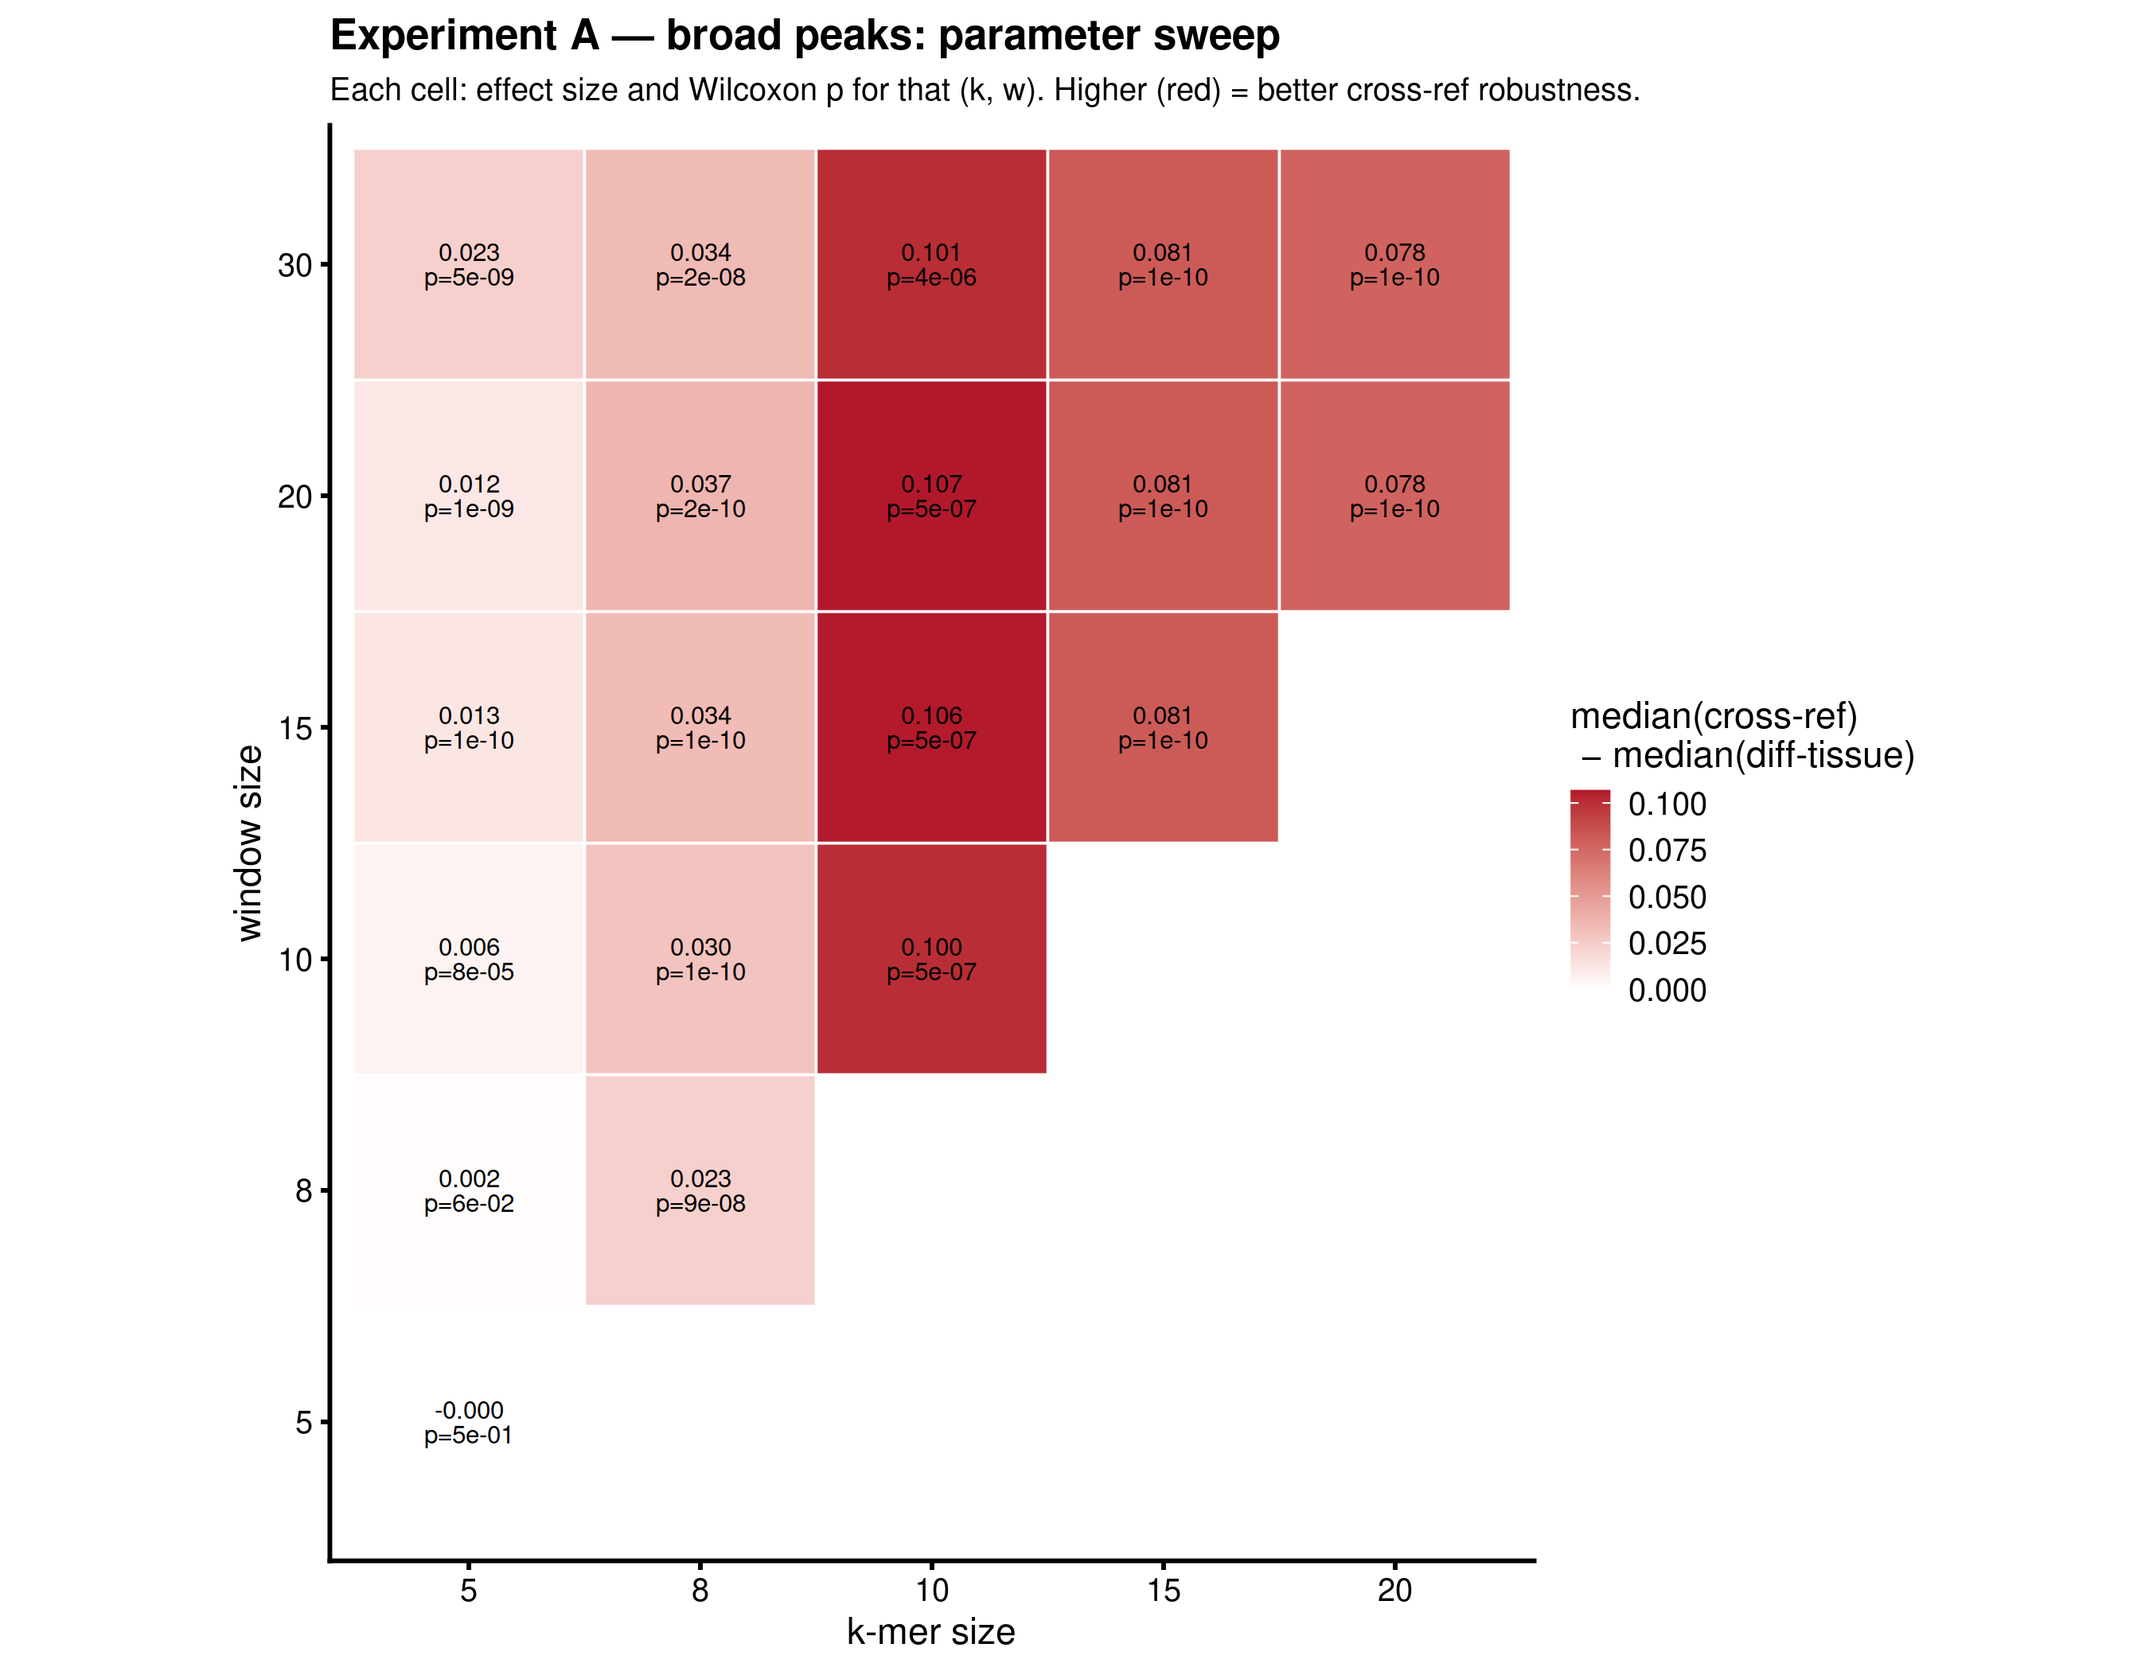
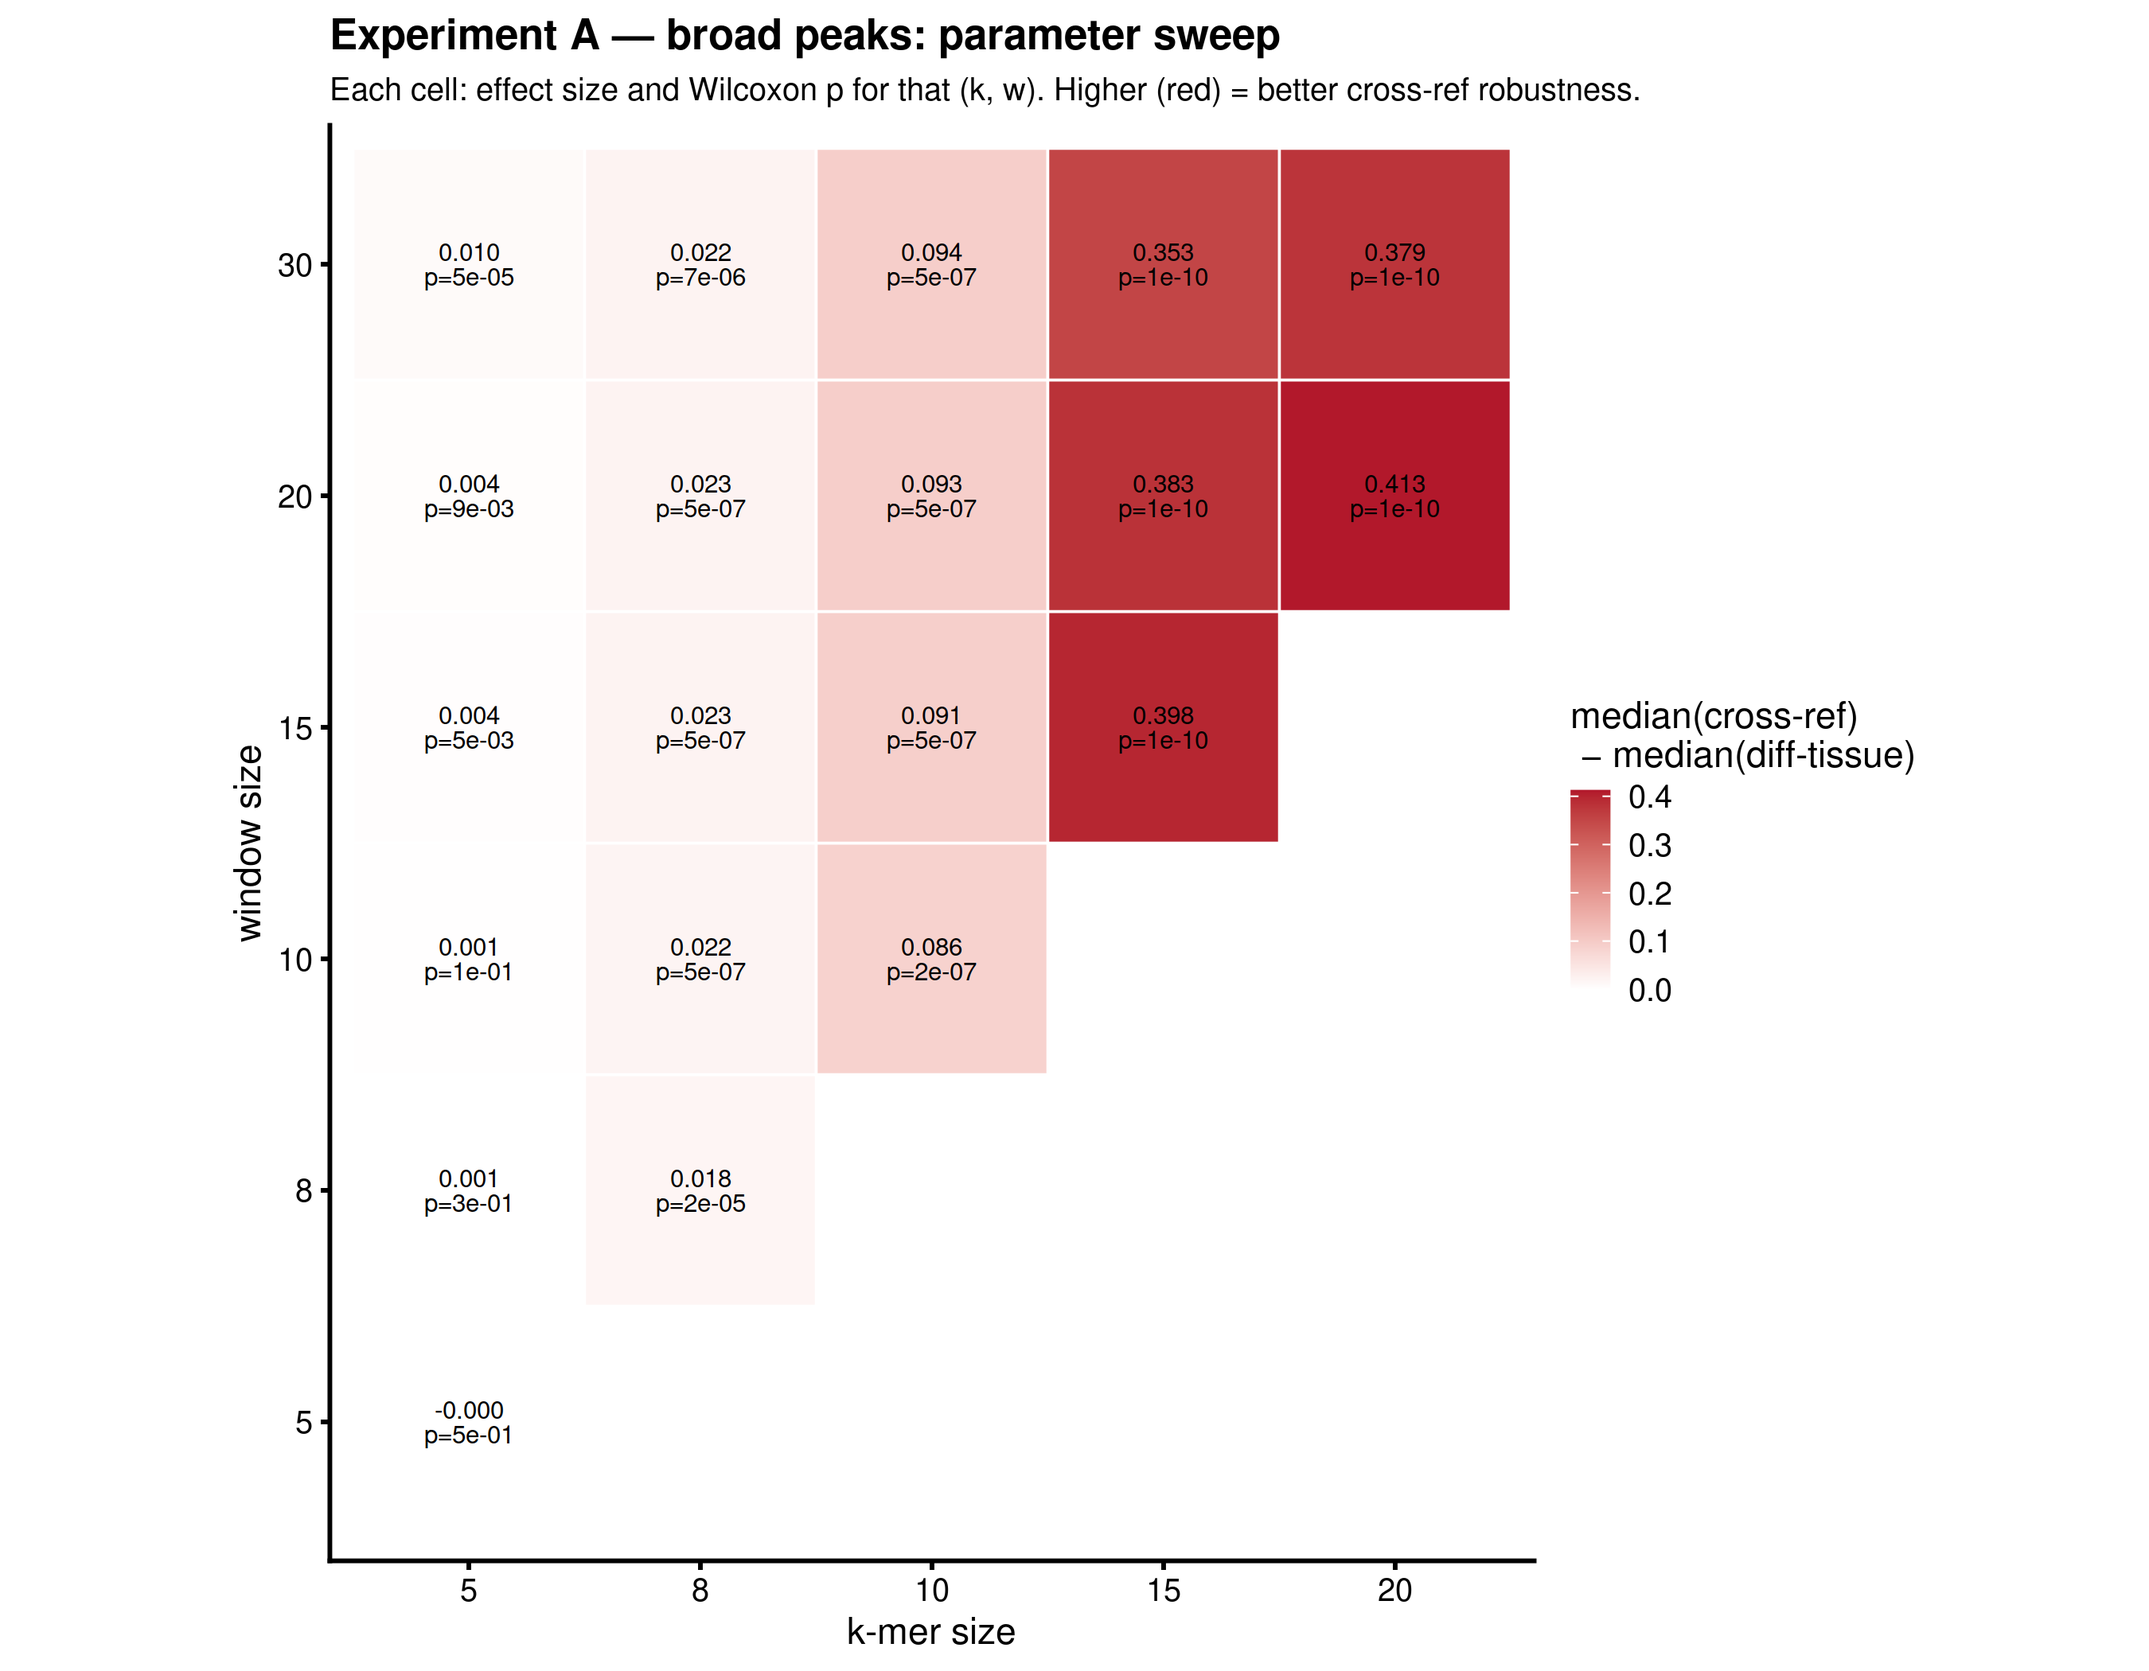
ref-comparison: rerun exp_a after Mode D bug fix; new k=15,w=15 headline
Post-fix the k=15 / k=20 cells become the strongest discriminators
(pre-fix they read as "saturated low"). New headline cell k=15, w=15
fully separates same-tissue cross-ref from different-tissue Jaccard
distributions. Adds the dendrogram figure at the new headline cell
(force-added past .gitignore figures/ rule, matching the other tracked
ref-comparison figures).

Changed region(s): [[0.1556, 0.0619, 0.7156, 0.8048], [0.7467, 0.4643, 0.8089, 0.5881]]

diff --git a/experiments/ref-comparison/docs/exp_a_results.md b/experiments/ref-comparison/docs/exp_a_results.md
@@ -5,16 +5,20 @@ ChIP-seq peaks, aligned to GRCh37 / GRCh38 / CHM13, should sketch more
 similarly *across references* than across tissues on any one reference.
 
 3 tissues (heart, liver, lung) × 3 references = 9 sample × ref combinations.
-2 peak callers (MACS3 broad + narrow). (k, w) sweep: 26 cells with w ≥ k.
+2 peak callers (MACS3 broad + narrow). (k, w) sweep: 20 cells with w ≥ k.
 
 Hammock Mode D with minimizer HLL, `--precision 24`. Similarity metric:
 `jaccard_similarity_with_ends` (minimizer ∪ start-end HLL).
 
-## Where to find the raw results
+> **Rerun 2026-05-14**: all hammock CSVs, stats, and figures below were
+> regenerated after the Mode D minimizer-ingest bug fix (orig's slow-path
+> `add_string(str(hash_val))` silently dropped most minimizers at k ≥ 12;
+> `python/hammock/modes/sequence.py` now calls `add_hash64` directly —
+> see CLAUDE.md "Intentional divergences" §6). Pre-fix the k=15 and k=20
+> cells appeared to be a "saturated low" regime; post-fix they are the
+> strongest discriminators in the sweep.
 
-Symlinked into the repo with fine-grained paths (Exp A subset only — the
-legacy storage location also holds defunct Exp B artifacts that are not
-exposed here):
+## Where to find the raw results
 
 ```
 results/
@@ -32,16 +36,22 @@ Underlying storage: `/vast/blangme2/jbonnie/hammock/claude-ref-comparison/result
 ## Headline result
 
 Same-tissue cross-reference Jaccard is significantly higher than
-different-tissue Jaccard across **all** (k, w) cells with k ≥ 8.
-The hypothesis ("reference choice contributes less than tissue identity")
-holds across the entire usable parameter range.
+different-tissue Jaccard across every (k, w) cell with k ≥ 8 in both
+peak types. The hypothesis ("reference choice contributes less than
+tissue identity") holds across the entire usable parameter range, and
+at k ∈ {15, 20} the two groups are **fully separated** — the minimum
+same-tissue cross-ref similarity exceeds the maximum different-tissue
+similarity.
 
 ### Dendrogram — direct visual proof
 
-UPGMA clustering on `1 − jaccard_similarity_with_ends` at k=10, w=10.
-Each tissue's three references form a tight monophyletic clade in both
-peak types; the within-tissue merge heights (≤ 0.1) are several-fold
-smaller than inter-tissue merges (≥ 0.4). Source: `scripts/exp_a_dendrogram.R`.
+UPGMA clustering on `1 − jaccard_similarity_with_ends`. Each tissue's
+three references form a tight monophyletic clade in both peak types.
+At k=15, w=15 the clades are deeply separated; at k=10, w=10 they
+still partition cleanly but with smaller margin. Source:
+`scripts/exp_a_dendrogram.R`.
+
+![Cross-reference dendrogram (broad + narrow, k=15, w=15)](../figures/cross_ref_dendrogram_k15_w15.png)
 
 ![Cross-reference dendrogram (broad + narrow, k=10, w=10)](../figures/cross_ref_dendrogram_k10_w10.png)
 
@@ -61,53 +71,39 @@ effect size (median cross-ref − median diff-tissue) and the Wilcoxon p.
 
 | Regime | Cells | Behavior |
 |---|---|---|
-| **Saturated high** | k=5 (any w) | Both groups ≈ 0.99. Tiny effect (Δ ≤ 0.02). |
-| **Sweet spot — interpretable** | k=10, w ≥ 10 | Δmedian ≈ 0.10 on mid-range medians (≈ 0.5 vs 0.4). |
-| **Saturated low** | k ≥ 15 | Absolute medians collapse (≈ 0.09 vs 0.015). Ratio is large (~6×), Δ moderate (~0.08), p ≤ 1.35e-10. |
-| **Borderline** | k=8 | Strong p but small Δ (≈ 0.02–0.03) on top of high baseline (~0.95). |
+| **Saturated high** | k=5 (any w); k=8 (any w) | Both groups ≈ 0.95–0.99. Δ ≤ 0.02; k=5 mostly non-significant. |
+| **Interpretable mid** | k=10, w ≥ 10 | Medians ≈ 0.55–0.65; Δ ≈ 0.09; p ≈ 1e-7. Groups overlap. |
+| **Interpretable + fully separated** | k=15, k=20 (any valid w) | Medians cross-ref ≈ 0.55–0.78 vs diff-tissue ≈ 0.24–0.39. Δ ≈ 0.32–0.45, p ≈ 1.35e-10 (Wilcoxon floor). **min(xref) > max(diff-tissue)**. |
 
 ![Sweep effect-size heatmap, broad peaks](../figures/sweep_effect_size_broad.png)
 
 ![Sweep effect-size heatmap, narrow peaks](../figures/sweep_effect_size_narrow.png)
 
-Top-significance cells (broad, narrow consistent):
+Top-effect cells (broad / narrow consistent ordering):
 
-| Cell | Δmedian | Wilcoxon p | median(cross-ref) | median(diff-tissue) |
-|---|---|---|---|---|
-| k15_* (all w) | 0.081 | 1.35e-10 | 0.097 | 0.015 |
-| k10_w20 | 0.107 | 4.5e-7 | 0.526 | 0.419 |
-| k10_w15 | 0.106 | 4.5e-7 | 0.550 | 0.444 |
-| k10_w10 | 0.100 | 4.5e-7 | 0.587 | 0.486 |
+| Cell | peak | Δmedian | Wilcoxon p | median(cross-ref) | median(diff-tissue) |
+|---|---|---|---|---|---|
+| k15_w15 | broad  | 0.398 | 1.35e-10 | 0.783 | 0.385 |
+| k15_w15 | narrow | 0.387 | 1.35e-10 | 0.729 | 0.342 |
+| k20_w20 | broad  | 0.413 | 1.35e-10 | 0.725 | 0.313 |
+| k20_w20 | narrow | 0.366 | 1.35e-10 | 0.643 | 0.277 |
+| k15_w20 | broad  | 0.383 | 1.35e-10 | 0.743 | 0.361 |
+| k15_w30 | broad  | 0.353 | 1.35e-10 | 0.676 | 0.323 |
+| k20_w30 | broad  | 0.379 | 1.35e-10 | 0.657 | 0.277 |
+| k10_w10 | broad  | 0.086 | 2.02e-07 | 0.640 | 0.554 |
+| k10_w10 | narrow | 0.087 | 4.54e-07 | 0.640 | 0.553 |
 
-The k=10 cells are the most defensible to lead with: large absolute
-effect, both groups well away from the 0/1 boundaries, and the heatmap
-panel (B) of the single-cell figure shows visible block structure.
+**k=15, w=15 is the best lead cell**: largest Δ, maximally significant,
+medians sit in the interpretable mid-range, and the groups are *fully
+separated* (broad: min cross-ref 0.753 > max diff-tissue 0.443). k=10
+cells are still useful when overlap (rather than clean separation) is
+the story being told.
 
-## Mirrored figures (local, not committed)
+## New Mode D columns — at k=10, w=10
 
-`figures/` is gitignored. Files present:
-
-- `sweep_effect_size_{broad,narrow}.png` — top-level (k × w) effect-size heatmaps.
-- `cross_ref_validation_{broad,narrow}_k10_w10.png` — representative single-cell figure (boxplot + 9×9 sample-by-sample heatmap).
-- `cross_ref_dendrogram_k10_w10.png` — UPGMA dendrogram, broad + narrow.
-- `metric_comparison_broad_k10_w10.png` / `.tsv` — sanity check for the new Mode D output columns (see below).
-
-Other per-cell `cross_ref_validation.png` files are reachable through
-`results/exp_a/{peak_type}/k{k}_w{w}/` if a different cell ever needs to
-be inspected.
-
-## New Mode D columns — sanity check at k=10, w=10
-
-The bulk CSVs under `results/exp_a/` predate the containment + cosketch
-metric additions (shipped 2026-05-14) and only carry `jaccard_similarity`
-+ `jaccard_similarity_with_ends`. I re-ran hammock at the (k=10, w=10)
-broad cell with the current binary to check the 10 new columns. Inputs +
-output kept under `/tmp/hammock_newcols_test/` (not in `results/` —
-exploratory).
-
-`scripts/exp_a_metric_comparison.R` performs the same Wilcoxon test
-(same-tissue cross-ref vs different-tissue) on each of the 12 columns.
-Outputs `figures/metric_comparison_{broad,narrow}_k10_w10.{png,tsv}`.
+`scripts/exp_a_metric_comparison.R` runs the same Wilcoxon test on each
+of the 12 metric columns the new hammock emits (6 minimizer + 6
+minimizer+ends). Outputs: `figures/metric_comparison_{broad,narrow}_k10_w10.{png,tsv}`.
 
 ![Metric comparison, broad, k=10, w=10](../figures/metric_comparison_broad_k10_w10.png)
 
@@ -117,34 +113,36 @@ Outputs `figures/metric_comparison_{broad,narrow}_k10_w10.{png,tsv}`.
 
 | Metric (flavor)                | Δ broad | p broad | Δ narrow | p narrow |
 |---|---|---|---|---|
-| jaccard (minimizer)            | 0.127 | 1.35e-10 | 0.154 | 1.35e-10 |
-| containment_AB/BA (minimizer)  | 0.059 | 1.36e-10 | 0.067 | 1.36e-10 |
-| cosketch_geom (minimizer)      | 0.068 | 1.35e-10 | 0.083 | 1.35e-10 |
-| cosketch_arith (minimizer)     | 0.068 | 1.35e-10 | 0.082 | 1.35e-10 |
-| cosketch_max (minimizer)       | 0.032 | 1.35e-10 | 0.032 | 1.35e-10 |
-| **jaccard (minimizer+ends)**   | **0.100** | **4.5e-07** | **0.099** | **2.1e-06** ← existing default |
-| cosketch_geom (minimizer+ends) | 0.081 | 4.5e-07 | 0.078 | 7.2e-06 |
-| cosketch_arith (minimizer+ends)| 0.077 | 4.5e-07 | 0.071 | 1.4e-05 |
-| containment_AB/BA (with ends)  | 0.035 | 6.4e-04 | 0.035 | 8.5e-03 |
-| cosketch_max (with ends)       | 0.017 | 3.7e-02 | 0.000 | 4.5e-01 |
+| jaccard (minimizer)            | 0.071 | 1.35e-10 | 0.084 | 1.35e-10 |
+| containment_AB/BA (minimizer)  | 0.032 | 1.36e-10 | 0.036 | 1.36e-10 |
+| cosketch_geom (minimizer)      | 0.037 | 1.35e-10 | 0.044 | 1.35e-10 |
+| cosketch_arith (minimizer)     | 0.036 | 1.35e-10 | 0.043 | 1.35e-10 |
+| cosketch_max (minimizer)       | 0.017 | 1.35e-10 | 0.016 | 1.35e-10 |
+| **jaccard (minimizer+ends)**   | **0.086** | **2.02e-07** | **0.087** | **4.54e-07** ← existing default |
+| cosketch_geom (minimizer+ends) | 0.065 | 1.54e-07 | 0.064 | 9.94e-07 |
+| cosketch_arith (minimizer+ends)| 0.062 | 2.02e-07 | 0.059 | 4.45e-06 |
+| containment_AB/BA (with ends)  | 0.029 | 8.81e-04 | 0.028 | 6.62e-03 |
+| cosketch_max (with ends)       | 0.013 | 5.13e-02 | 0.000 | 4.92e-01 |
 
 Notes (both peak types):
-1. **All minimizer-only metrics hit the Wilcoxon test floor** (p ≈ 1.4e-10 for n=18/54). Maximally significant, but operating near saturation (medians ≈ 0.99 vs ≈ 0.93), so Δ is small in absolute terms.
-2. **Adding the start-end HLL lowers baselines into the interpretable mid-range** (~0.7) and reduces saturation. Cost: p drops by ~3–4 orders of magnitude for the surviving discriminators.
-3. **Containment-with-ends is a markedly weaker discriminator** than jaccard-with-ends. The pattern is symmetric — `containment_AB` and `containment_BA` produce identical medians across the full all-vs-all set because every unordered pair appears in both directions.
-4. **cosketch_max collapses entirely on narrow with ends** (Δ = 0, p = 0.45). Worst metric in both flavors.
-5. **`jaccard_similarity_with_ends` remains the right default** for headline analysis: best Δ/saturation trade-off and matches what the existing CSV sweep already used. `cosketch_geom_with_ends` is a near-tie if a redundancy-aware alternative is wanted.
+1. **All minimizer-only metrics hit the Wilcoxon test floor** (p ≈ 1.4e-10 for n=18/54). Maximally significant but operating near saturation (medians ≈ 0.99 vs ≈ 0.92), so absolute Δ is small.
+2. **Adding the start-end HLL lowers baselines into the interpretable mid-range** (~0.55–0.78) and reduces saturation. Cost: p drops by ~3–4 orders of magnitude for the surviving discriminators.
+3. **Containment-with-ends is a markedly weaker discriminator** than jaccard-with-ends. `containment_AB` and `containment_BA` produce identical medians across the all-vs-all set because every unordered pair appears in both directions.
+4. **cosketch_max collapses on with-ends** (broad Δ 0.013 p ≈ 0.05, narrow Δ ≈ 0 p ≈ 0.49). Worst metric in both flavors.
+5. **`jaccard_similarity_with_ends` remains the right default** for headline analysis at k=10: best Δ/saturation trade-off and matches what the existing CSV sweep uses. `cosketch_geom_with_ends` is a near-tie if a redundancy-aware alternative is wanted.
 6. **Broad vs narrow**: minimizer-only effects are slightly larger on narrow (likely tighter peak boundaries → more shared minimizers between same-sample-different-ref pairs). With-ends p-values are slightly weaker on narrow but the qualitative ordering of metrics is identical.
 
 ### To extend
 
-- Re-run the full (k × w) sweep with the current hammock to populate the new columns across all 26 cells × 2 peak types, then regenerate the sweep-effect heatmap for each metric. Inputs + Snakemake DAG are unchanged; only `rule exp_a_hammock` needs to re-fire.
-- Single-cell sanity-check CSVs are at `/tmp/hammock_newcols_test/newcols_{broad,narrow}_k10w10_mnmzr_p24_jaccD_k10_w10.csv` (not preserved in `results/`).
+- Replicate this 12-metric comparison at k=15, w=15 (the new headline cell) — `metric_comparison.R` is parameterised on the input CSV.
+- The same minimizer / minimizer+ends pattern likely holds, but with-ends may matter less when the minimizer-only signal is already fully separated.
 
 ## Scripts that produced these outputs
 
 - `scripts/exp_a_validate_plot.R` — per-cell Wilcoxon + 2-panel figure (boxplot + 9×9 heatmap)
 - `scripts/exp_a_sweep_summary.R` — (k × w) effect-size heatmap
+- `scripts/exp_a_dendrogram.R` — UPGMA dendrogram (broad + narrow)
+- `scripts/exp_a_metric_comparison.R` — 12-metric Wilcoxon comparison at one (k, w)
 - `workflow/Snakefile` — orchestrates peaks → FASTA (bedtools getfasta) → hammock Mode D → R plots
 
 ## Reproducing
